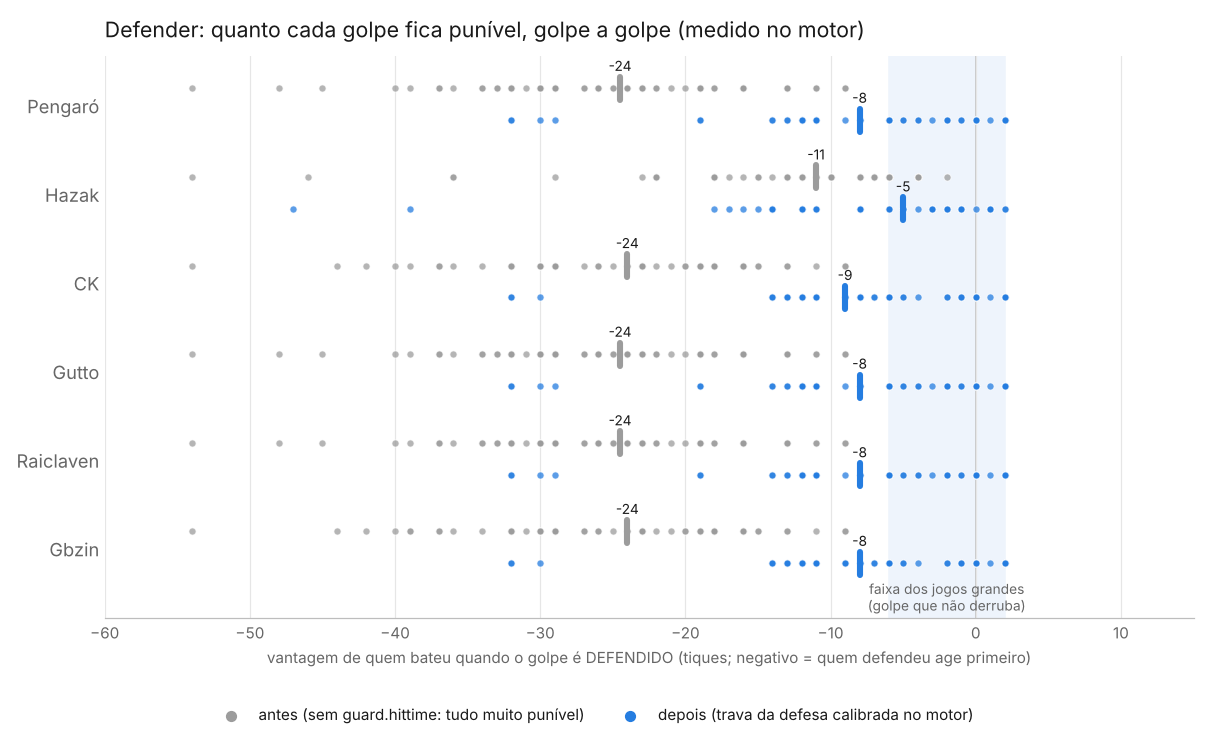
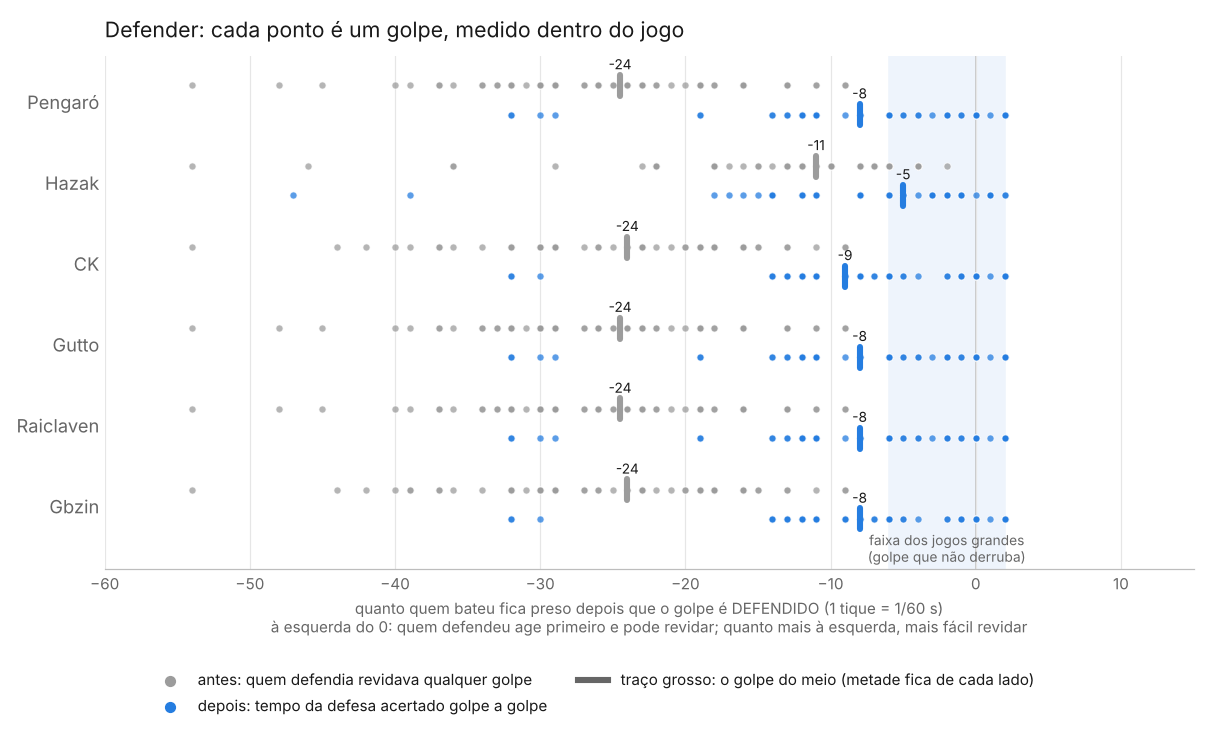
Gráfico da vantagem com legenda em português simples (revisão do Haiku)
Claude-Session: https://claude.ai/code/session_019UDbB4ThQTkufpcWB14o1E

diff --git a/ferramentas/vantagem_grafico.py b/ferramentas/vantagem_grafico.py
@@ -46,7 +46,8 @@ def main():
             ax.text(m, y + dy + 0.16, f"{m:+.0f}", ha="center", va="bottom", fontsize=9, color=TEXTO)
     ax.set_yticks(range(len(lut)))
     ax.set_yticklabels([NOMES[l] for l in reversed(lut)], fontsize=12, color=TEXTO)
-    ax.set_xlabel("vantagem de quem bateu quando o golpe é DEFENDIDO (tiques; negativo = quem defendeu age primeiro)",
+    ax.set_xlabel("quanto quem bateu fica preso depois que o golpe é DEFENDIDO (1 tique = 1/60 s)\n"
+                  "à esquerda do 0: quem defendeu age primeiro e pode revidar; quanto mais à esquerda, mais fácil revidar",
                   fontsize=10, color=TEXTO2)
     ax.set_xlim(-60, 15)
     ax.grid(axis="x", color=GRADE, lw=0.8, zorder=0)
@@ -54,13 +55,14 @@ def main():
         ax.spines[s].set_visible(False)
     ax.spines["bottom"].set_color("#bdbdbd")
     ax.tick_params(colors=TEXTO2, length=0)
-    ax.scatter([], [], s=40, color=CINZA, label="antes (sem guard.hittime: tudo muito punível)")
-    ax.scatter([], [], s=40, color=AZUL, label="depois (trava da defesa calibrada no motor)")
-    ax.legend(loc="upper center", bbox_to_anchor=(0.45, -0.13), ncol=2, frameon=False, fontsize=10, labelcolor=TEXTO)
+    ax.scatter([], [], s=40, color=CINZA, label="antes: quem defendia revidava qualquer golpe")
+    ax.scatter([], [], s=40, color=AZUL, label="depois: tempo da defesa acertado golpe a golpe")
+    ax.plot([], [], color=TEXTO2, lw=4, label="traço grosso: o golpe do meio (metade fica de cada lado)")
+    ax.legend(loc="upper center", bbox_to_anchor=(0.45, -0.17), ncol=2, frameon=False, fontsize=10, labelcolor=TEXTO)
     ax.text(-2, -0.75, "faixa dos jogos grandes\n(golpe que não derruba)", ha="center", va="bottom", fontsize=9,
             color=TEXTO2)
     ax.set_ylim(-0.8, len(lut) - 0.45)
-    ax.set_title("Defender: quanto cada golpe fica punível, golpe a golpe (medido no motor)", fontsize=14,
+    ax.set_title("Defender: cada ponto é um golpe, medido dentro do jogo", fontsize=14,
                  color=TEXTO, loc="left", pad=12)
     fig.tight_layout()
     fig.savefig(sys.argv[3], facecolor="white")
